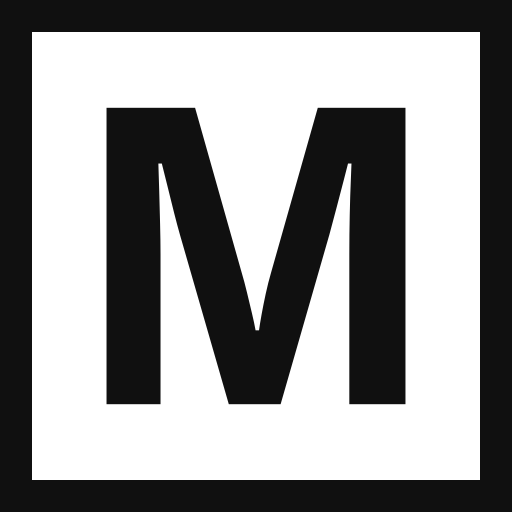
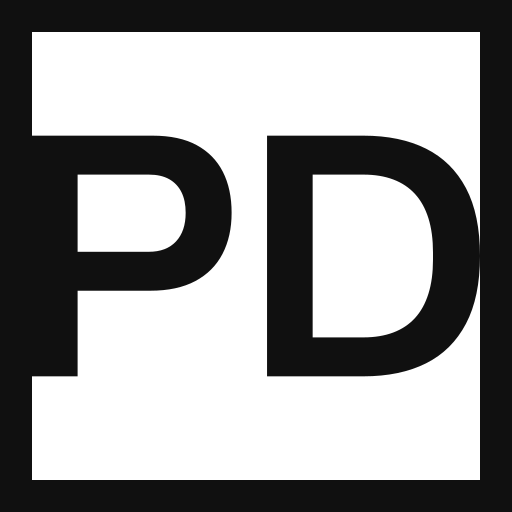
feat: rebrand na pierwszedemo.com
Domena, marka i kontakt idą pod „Pierwsze Demo". SITE_NAME to od teraz
serwis, PERSON_NAME osoba – węzeł Person nie może nazywać się jak strona.
Host wchodzi wyłącznie przez SITE_URL/SITE_HOST: schema @id, UTM-y, badge
kart OG i sitemap w robots.txt liczą się z niego.

Adres e-mail przechodzi przez EmailLink.astro z <!--email_off-->, tak samo
jak na olageppert.pl.

Favicon to monogram „PD". Wersja z ramką zostaje dla ≥96 px; 16/32/48 px
w .ico dostają wariant bez ramki, bo dwie litery w ramce przy 16 px schodzą
poniżej piksela i zlewają się w plamę.

Changed region(s): [[0.0625, 0.1875, 0.9375, 0.8125]]

diff --git a/src/consts.ts b/src/consts.ts
@@ -1,13 +1,28 @@
-export const SITE_URL = "https://miszczyszyn.com";
-export const SITE_NAME = "Michał Miszczyszyn";
+export const SITE_URL = "https://pierwszedemo.com";
+
+/** Sama domena – badge kart OG, UTM-y, opisy. Nigdy nie wpisuj jej ręcznie. */
+export const SITE_HOST = new URL(SITE_URL).host;
+
+/**
+ * Marka serwisu (tytuły, og:site_name, RSS) i osoba, która za nim stoi, to od
+ * rebrandu dwie różne rzeczy. `SITE_NAME` idzie tam, gdzie mowa o serwisie;
+ * `PERSON_NAME` tam, gdzie o człowieku – przede wszystkim w węźle Person
+ * schema.org, bo encja osoby nie może nazywać się jak strona.
+ */
+export const SITE_NAME = "Pierwsze Demo";
+export const PERSON_NAME = "Michał Miszczyszyn";
 export const SITE_TAGLINE = "Manager artystów";
 export const SITE_DESCRIPTION =
   "Management, wydawnictwa i booking dla artystów alternatywnych. Od pierwszego demo do festiwalowych scen – z planem, nie z przypadku.";
 
-export const CONTACT_EMAIL = "michal@miszczyszyn.com";
+export const CONTACT_EMAIL = "michal@pierwszedemo.com";
 export const HOME_CITY = "Gdańsk";
 
-/** Stabilne @id węzłów schema.org – nie zmieniaj, wiążą encje między stronami. */
+/**
+ * Stabilne @id węzłów schema.org – wiążą encje między stronami. Jadą z
+ * `SITE_URL`, więc zmiana domeny przepina je wszystkie naraz; poza taką
+ * przeprowadzką nie ma powodu ich ruszać.
+ */
 export const PERSON_ID = `${SITE_URL}/#michal`;
 export const WEBSITE_ID = `${SITE_URL}/#website`;
 export const ORGANIZATION_ID = `${SITE_URL}/#firma`;
@@ -24,7 +39,7 @@ export const LAST_CONTENT_UPDATE = "2026-08-09";
 export const GA_ID = "G-MHM5P6X3TG";
 
 /** Marka w lewej komórce nagłówka – w projekcie zapisana z ®. */
-export const WORDMARK = "Michał Miszczyszyn®";
+export const WORDMARK = `${SITE_NAME}®`;
 
 /**
  * Nawigacja. Makieta ma tu cztery komórki (marka, Artyści, Blog, Kontakt);
@@ -55,7 +70,7 @@ export const ROSTER = [
 
 export function withUtm(href: string, campaign: string): string {
   const url = new URL(href);
-  url.searchParams.set("utm_source", "miszczyszyn.com");
+  url.searchParams.set("utm_source", SITE_HOST);
   url.searchParams.set("utm_medium", "referral");
   url.searchParams.set("utm_campaign", campaign);
   return url.href;

diff --git a/src/og.ts b/src/og.ts
@@ -2,7 +2,7 @@ import { readFileSync } from "node:fs";
 import { resolve } from "node:path";
 import satori from "satori";
 import sharp from "sharp";
-import { HOME_CITY, SITE_TAGLINE, WORDMARK } from "./consts";
+import { HOME_CITY, SITE_HOST, SITE_TAGLINE, WORDMARK } from "./consts";
 
 /**
  * Karty OG 1200×630 rysowane tym samym językiem, co strona: biel, twarda
@@ -118,7 +118,7 @@ export async function renderOgCard({
           },
           [
             el("div", { fontSize: 26 }, WORDMARK),
-            el("div", { ...mono, color: MUTED }, badge ?? "miszczyszyn.com"),
+            el("div", { ...mono, color: MUTED }, badge ?? SITE_HOST),
           ],
         ),
       ],

diff --git a/src/pages/llms.txt.ts b/src/pages/llms.txt.ts
@@ -3,6 +3,7 @@ import { getSortedPosts, isoDate } from "../blog";
 import {
   CONTACT_EMAIL,
   HOME_CITY,
+  PERSON_NAME,
   ROSTER,
   SERVICES,
   SITE_DESCRIPTION,
@@ -27,7 +28,7 @@ export const GET: APIRoute = async () => {
     "",
     `> ${SITE_DESCRIPTION}`,
     "",
-    `${SITE_TAGLINE} z ${HOME_CITY}a. Kontakt: ${CONTACT_EMAIL}`,
+    `${PERSON_NAME} – ${SITE_TAGLINE.toLowerCase()} z ${HOME_CITY}a. Kontakt: ${CONTACT_EMAIL}`,
     "",
     "## Zakres pracy",
     "",

diff --git a/src/pages/og.png.ts b/src/pages/og.png.ts
@@ -4,9 +4,7 @@ import { OG_HEADERS, renderOgCard } from "../og";
 export const prerender = true;
 
 export const GET: APIRoute = async () => {
-  const png = await renderOgCard({
-    title: "Kariera to strategia.",
-    badge: "miszczyszyn.com",
-  });
+  // Bez `badge` – domyślny to adres serwisu, liczony z SITE_URL.
+  const png = await renderOgCard({ title: "Kariera to strategia." });
   return new Response(png, { headers: OG_HEADERS });
 };

diff --git a/AGENTS.md b/AGENTS.md
@@ -47,6 +47,20 @@ feeds the zod enum in `src/content.config.ts`, so adding a category is one edit.
 `LAST_CONTENT_UPDATE` must be bumped by hand – it drives JSON-LD `dateModified`
 and sitemap `lastmod`.
 
+The brand and the person are two constants, not one. `SITE_NAME` („Pierwsze
+Demo") is the site: titles, `og:site_name`, RSS, the `WebSite` node.
+`PERSON_NAME` („Michał Miszczyszyn") is the human: the `Person` node and the
+caption under the hero photo. Collapsing them back into one name makes the
+`Person` entity claim the site's name, which is the thing Google reads as the
+author. The domain lives in `SITE_URL` alone – `SITE_HOST`, the schema.org
+`@id`s, UTM `utm_source` and the OG card badge are all derived from it, so
+never type the host anywhere else.
+
+The e-mail address is only ever rendered through `src/components/EmailLink.astro`,
+which wraps the `mailto:` in `<!--email_off-->` – the same convention as
+olageppert.pl, so a change to how addresses are handled ports between the two
+sites without a grep.
+
 ### Blog
 
 Posts are markdown in `src/content/blog/`, loaded through a content collection
@@ -129,11 +143,16 @@ collide with the `[...slug]` catch-all.
 multi-size `.ico` from one source. Run it by hand (`bun scripts/generate-favicons.mjs`),
 not in the build — icons change once every few years and the output is committed.
 
-The „M" is a **path baked from Archivo**, never `<text>`. The first version used
-`<text font-family="Archivo, …">` and every raster came out as an empty square:
-sharp rasterises SVG through librsvg, which resolves *system* fonts. A visitor's
-browser rendering `favicon.svg` has the same problem. If you restyle the icon,
-keep the glyph as an outline.
+The „PD" monogram is a **path baked from Archivo**, never `<text>`. The first
+version used `<text font-family="Archivo, …">` and every raster came out as an
+empty square: sharp rasterises SVG through librsvg, which resolves *system*
+fonts. A visitor's browser rendering `favicon.svg` has the same problem. If you
+restyle the icon, keep the glyph as an outline.
+
+Two variants come out of the same monogram: `favicon.svg` and the ≥96 px PNGs
+keep the mock's frame, the 16/32/48 px entries inside `.ico` drop it. Framed,
+two letters at 16 px leave the stems below a pixel and „PD" smears into a grey
+block — the frame is what has to go, not the second letter.
 
 ### Analytics & consent
 
